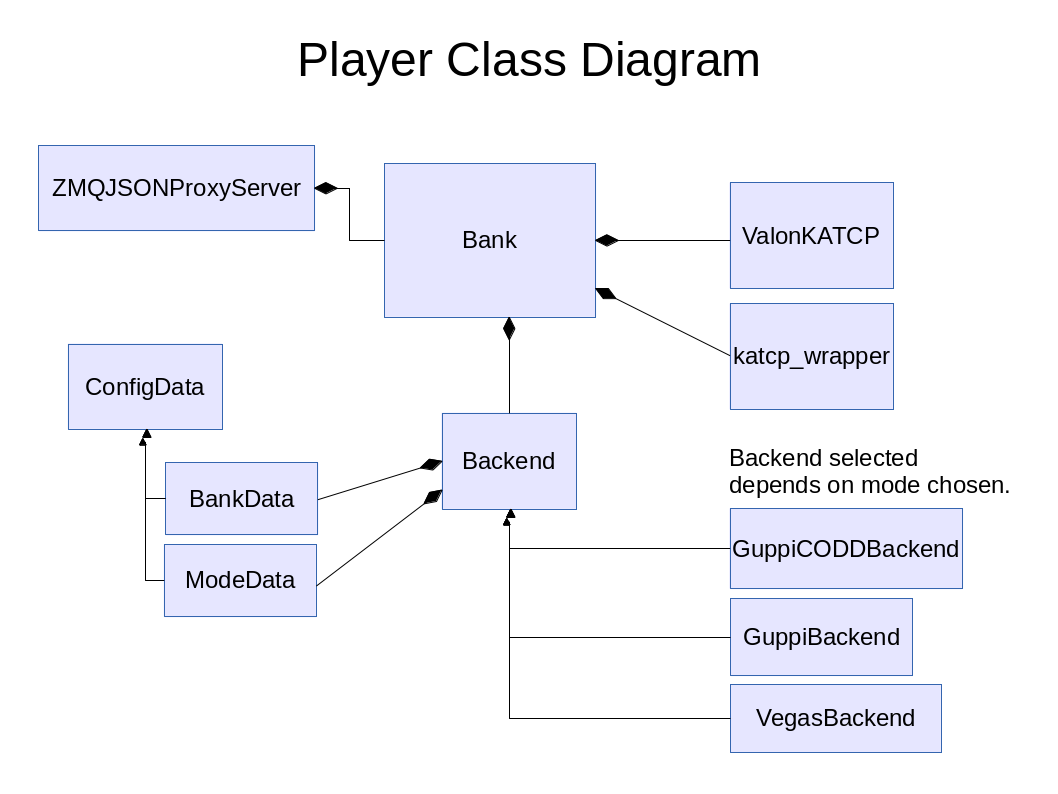
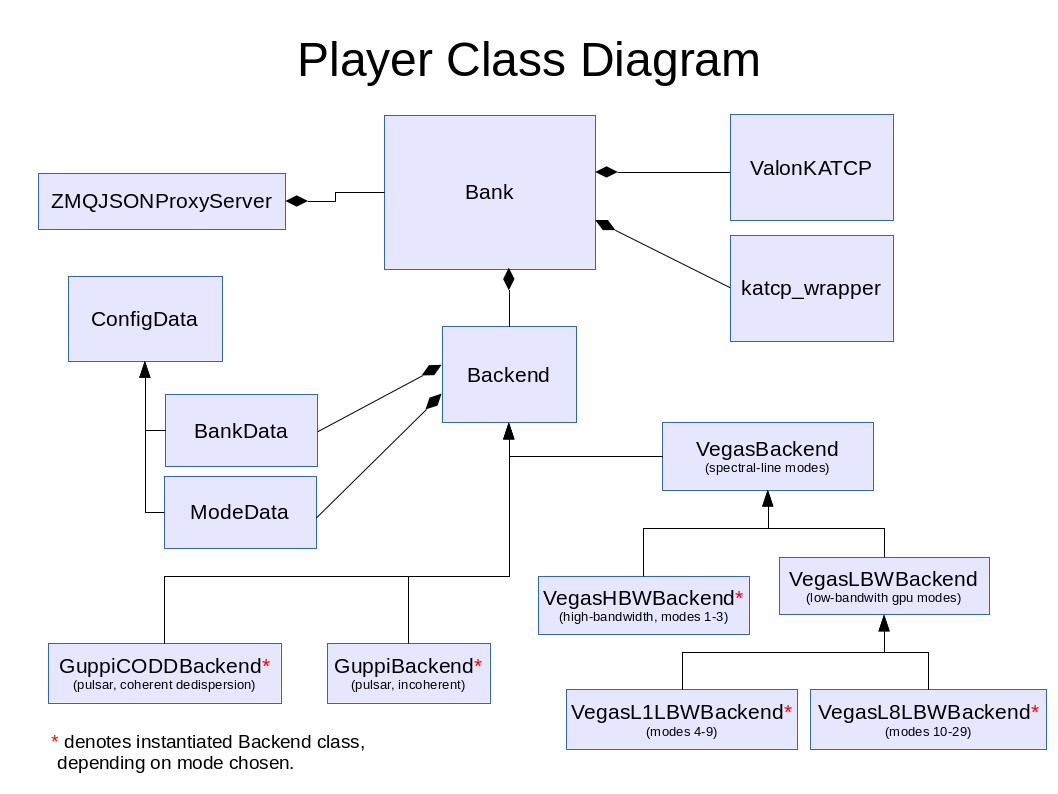
Updated documentation to account for refactored Backend classes and new spectral-line modes.

diff --git a/scripts/dibas/doc/introduction.rst b/scripts/dibas/doc/introduction.rst
@@ -9,6 +9,15 @@ The DIBAS spectrometer control software is a distributed system written in Pytho
 
    *Figure 1: Block diagram of Dealer and Players*
 
+Things to note when thinking about Dealer and Players:
+
+   * The Dealer process and the Player processes are not the same, nor do they need to be on the same host. All the Dealer needs is network access to the HPC computers running the Players.
+   * The Dealer and Player processes do not need the same Python installation (though they may of course use the same installation)
+   * The Dealer does not import the Player, katcp_wrapper, etc. modules. Nor does it need access to any of the specific pulsar coefficient files etc. needed by the Guppi modes. It only requires one module, PyZMQ, and the URLs to the players. Thus it may be run on a much simpler and more modest system than those needed by the Players.
+   * The Player does however need the full installation in :code:`/opt/dibas`.
+
+In other words the Dealer is a thin client to the Players, and serves as a means to control and coordinate the Players.
+
 The Player
 ==========
 
@@ -27,7 +36,43 @@ The player may be run interactively. As user `dibas` on the desired HPC machine:
 
 This is very useful to debug specific problems in Player configuration. (The use of ipython for this purpose is highly recommended as it provides discovery of object attributes and full access to all attribute docstrings.)
 
-For everyday use however the Players should be run as daemons, one on each HPC machine. Again, as user `dibas`, on the desired HPC machine::
+Configuring a Player for an observation is generally done via values called *parameters*. Thus the steps needed are:
+
+  * Set the mode
+  * Set all parameters
+  * call the :code:`prepare()` function
+  * call the :code:`start()` function
+
+So, continuing the interactive session above, configuring and running a scan would look like::
+
+   In [3]: d.set_mode('MODE1')
+   In [4]: d.set_param(observer='John Smith')
+   In [5]: d.set_param(project_id='TGBT17B_504_02')
+   In [6]: d.set_param(exposure=1.0)
+   In [7]: d.set_param(scan_length=30.0)
+   # set switching states, simple cal on/cal off for 1 second
+   In [8]: d.clear_switching_states()
+   In [9]: d.add_switching_state(0.002, blank=True, cal=True)
+   In [10]: d.add_switching_state(0.498, blank=False, cal=True)
+   In [11]: d.add_switching_state(0.002, blank=True, cal=False)
+   In [12]: d.add_switching_state(0.498, blank=False, cal=False)
+   In [13]: d.prepare()
+   In [14]: d.start()
+
+**NOTE:** All these functions provide return values. See the class documentation for Player and Backends.
+
+  * At  '3' above, we set a mode, in this case the wide-band spectral-line mode 'MODE1'.
+  * At '4' through '7', we set some parameter values. At this point we are only setting values in the backend, but not sending anything to hardware or shared memory.
+  * At '8' through '12' we specify a switching signal, in this case a simple cal on/cal off cycle lasting 1 second. '8' clears any previous switching signal. '9' sets Cal on, with a brief blanking period. '11' sets Cal off with a brief blanking period.
+  * After all these values are entered, we call :code:`prepare()`. This function takes all the values entered above and any defaults set via the configuration file, computes any derivative values that it needs, and writes to status memory and configures the roach.
+
+Help for parameters may be easily obtained by calling::
+
+   In [15]: d.help_param()
+
+A dictionary of parameters for that mode will be returned. The key is the parameter name, the value a brief explanation of what that parameter is.
+
+While running interactively is an excellent way to experiment and debug, for everyday use the Players should be run as daemons, one on each HPC machine. Again, as user `dibas`, on the desired HPC machine::
 
    $ source /opt/dibas/dibas.bash
    $ player
@@ -50,7 +95,7 @@ Dealers may come and go as needed. Further, there may be more than one Dealer ru
 Using the Dealer
 ----------------
 
-The Dealer is not meant to be a stand-alone program. It is designed instead to be imported as a module in a Python program or script::
+The Dealer is not meant to be a stand-alone program. It is designed instead to be imported as a module in a Python program or script, or used interactively::
 
    $ source /opt/dibas/dibas.bash
    $ ipython
@@ -65,3 +110,29 @@ In this example the Dealer is given no configuration information, so it fetches 
    In [3]: d = dealer.Dealer(players)
 
 In this case the URLs provided to the Dealer provide it with the information it needs to connect to the Players.
+
+The Dealer may be dynamically configured to control any number of available Players; when it is first created it is configured to control the single player at 'BANKA'. So the next step after creating a Dealer is to set it up to control the desired Players::
+
+   In [4]: d.list_available_players()
+   Out[4]: ['BANKH', 'BANKC', 'BANKB', 'BANKA', 'BANKG', 'BANKF', 'BANKE', 'BANKD']
+   In [5]: d.list_active_players()
+   Out[5]: ['BANKA']
+   In [6]: d.add_active_player('BANKB', 'BANKC')
+   Out[6]: ['BANKA', 'BANKB', 'BANKC']
+
+Thus may any of the players in the list of available players be added or removed (use :code:`remove_active_player()` in the same way to remove Players).
+From this point on the same code examples in the 'Using the Player' section above can be run here--using the :code:`d` Dealer object in place of the :code:`p` Player object--and the dealer will simultaneously apply these calls to the three players added in '5' in the example above.
+
+If needed the players may be controlled individually while in the Dealer library::
+
+   In [7]: p = d.players['BANKA']
+   In [8]: p.valon.get_frequency(0)
+   Out[8]: 1500.0
+
+etc.
+
+
+Restarting Players
+------------------
+
+Players may be restared for any reason (updates, etc.) without the need to restart the process that contains the Dealer. The only consideration is that the restarted Player will need to be reconfigured by the Dealer.

diff --git a/scripts/dibas/doc/backend.rst b/scripts/dibas/doc/backend.rst
@@ -8,12 +8,16 @@ The DIBAS is a multi-mode instrument. Modes are selected by programming the FPGA
 
 Each BOF file has its own set of registers which do not necessarily do the same things and are not named the same way accross BOF files. The Backend classes exist to abstract away the differences and provide a common interface to all the BOF files.
 
-The Bank class uses a strategy pattern [strategy]_ to deal with each different BOF file. When a mode is selected an object that derives from Backend is constructed and handles all requests to the Backend functions. Each Backend class implements the Backend interface as appropriate.  There are currently 4 backend classes:
+The Bank class uses a strategy pattern [strategy]_ to deal with each different BOF file. When a mode is selected an object that derives from Backend is constructed and handles all requests to the Backend functions. Each Backend class implements the Backend interface as appropriate.  There are currently 8 backend classes:
 
    * **Backend:** the base class
-   * **VegasBackend:** provides spectral line modes, based on GBT VEGAS spectrometer
    * **GuppiBackend:** incoherent mode pulsar backend based on GBT GUPPI instrument
    * **GuppiCODDBackend:** Coherent de-dispersion mode pulsar backend, based on GBT GUPPI instrument.
+   * **VegasBackend:** Base class for the spectral line modes, based on GBT VEGAS spectrometer
+   * **VegasHBWBackend:** Instance class for the wide band spectral line modes (modes 1-3)
+   * **VegasLBWBackend:** Base class for the narrow band spectral line modes (modes 4-29)
+   * **VegasL1LBWBackend:** Instance class for the L1 lbw modes. These modes provide a fixed narrow-band window.
+   * **VegasL8LBWBackend:** Instance class for the L8 lbw modes. These modes provide 1 or 8 movable narrow-band windows.
 
 The base class provides the interface and a fair amount of common functionality (gettting/setting status memory, roach registers, etc.) The individual derived backend classes provide the functionality that must be specific to each backend.
 
@@ -25,14 +29,6 @@ class Backend
 
 .. automodule:: Backend
 .. autoclass:: Backend.Backend
-   :members:
-   :private-members:
-
-class VegasBackend
-------------------
-
-.. automodule:: VegasBackend
-.. autoclass:: VegasBackend.VegasBackend
    :members:
    :private-members:
 
@@ -49,6 +45,46 @@ class GuppiCODDBackend
 
 .. automodule:: GuppiCODDBackend
 .. autoclass:: GuppiCODDBackend.GuppiCODDBackend
+   :members:
+   :private-members:
+
+class VegasBackend
+------------------
+
+.. automodule:: VegasBackend
+.. autoclass:: VegasBackend.VegasBackend
+   :members:
+   :private-members:
+
+class VegasHBWBackend
+---------------------
+
+.. automodule:: VegasHBWBackend
+.. autoclass:: VegasHBWBackend.VegasHBWBackend
+   :members:
+   :private-members:
+
+class VegasLBWBackend
+---------------------
+
+.. automodule:: VegasLBWBackend
+.. autoclass:: VegasLBWBackend.VegasLBWBackend
+   :members:
+   :private-members:
+
+class VegasL1LBWBackend
+-----------------------
+
+.. automodule:: VegasL1LBWBackend
+.. autoclass:: VegasL1LBWBackend.VegasL1LBWBackend
+   :members:
+   :private-members:
+
+class VegasL8LBWBackend
+-----------------------
+
+.. automodule:: VegasL8LBWBackend
+.. autoclass:: VegasL8LBWBackend.VegasL8LBWBackend
    :members:
    :private-members:
 
